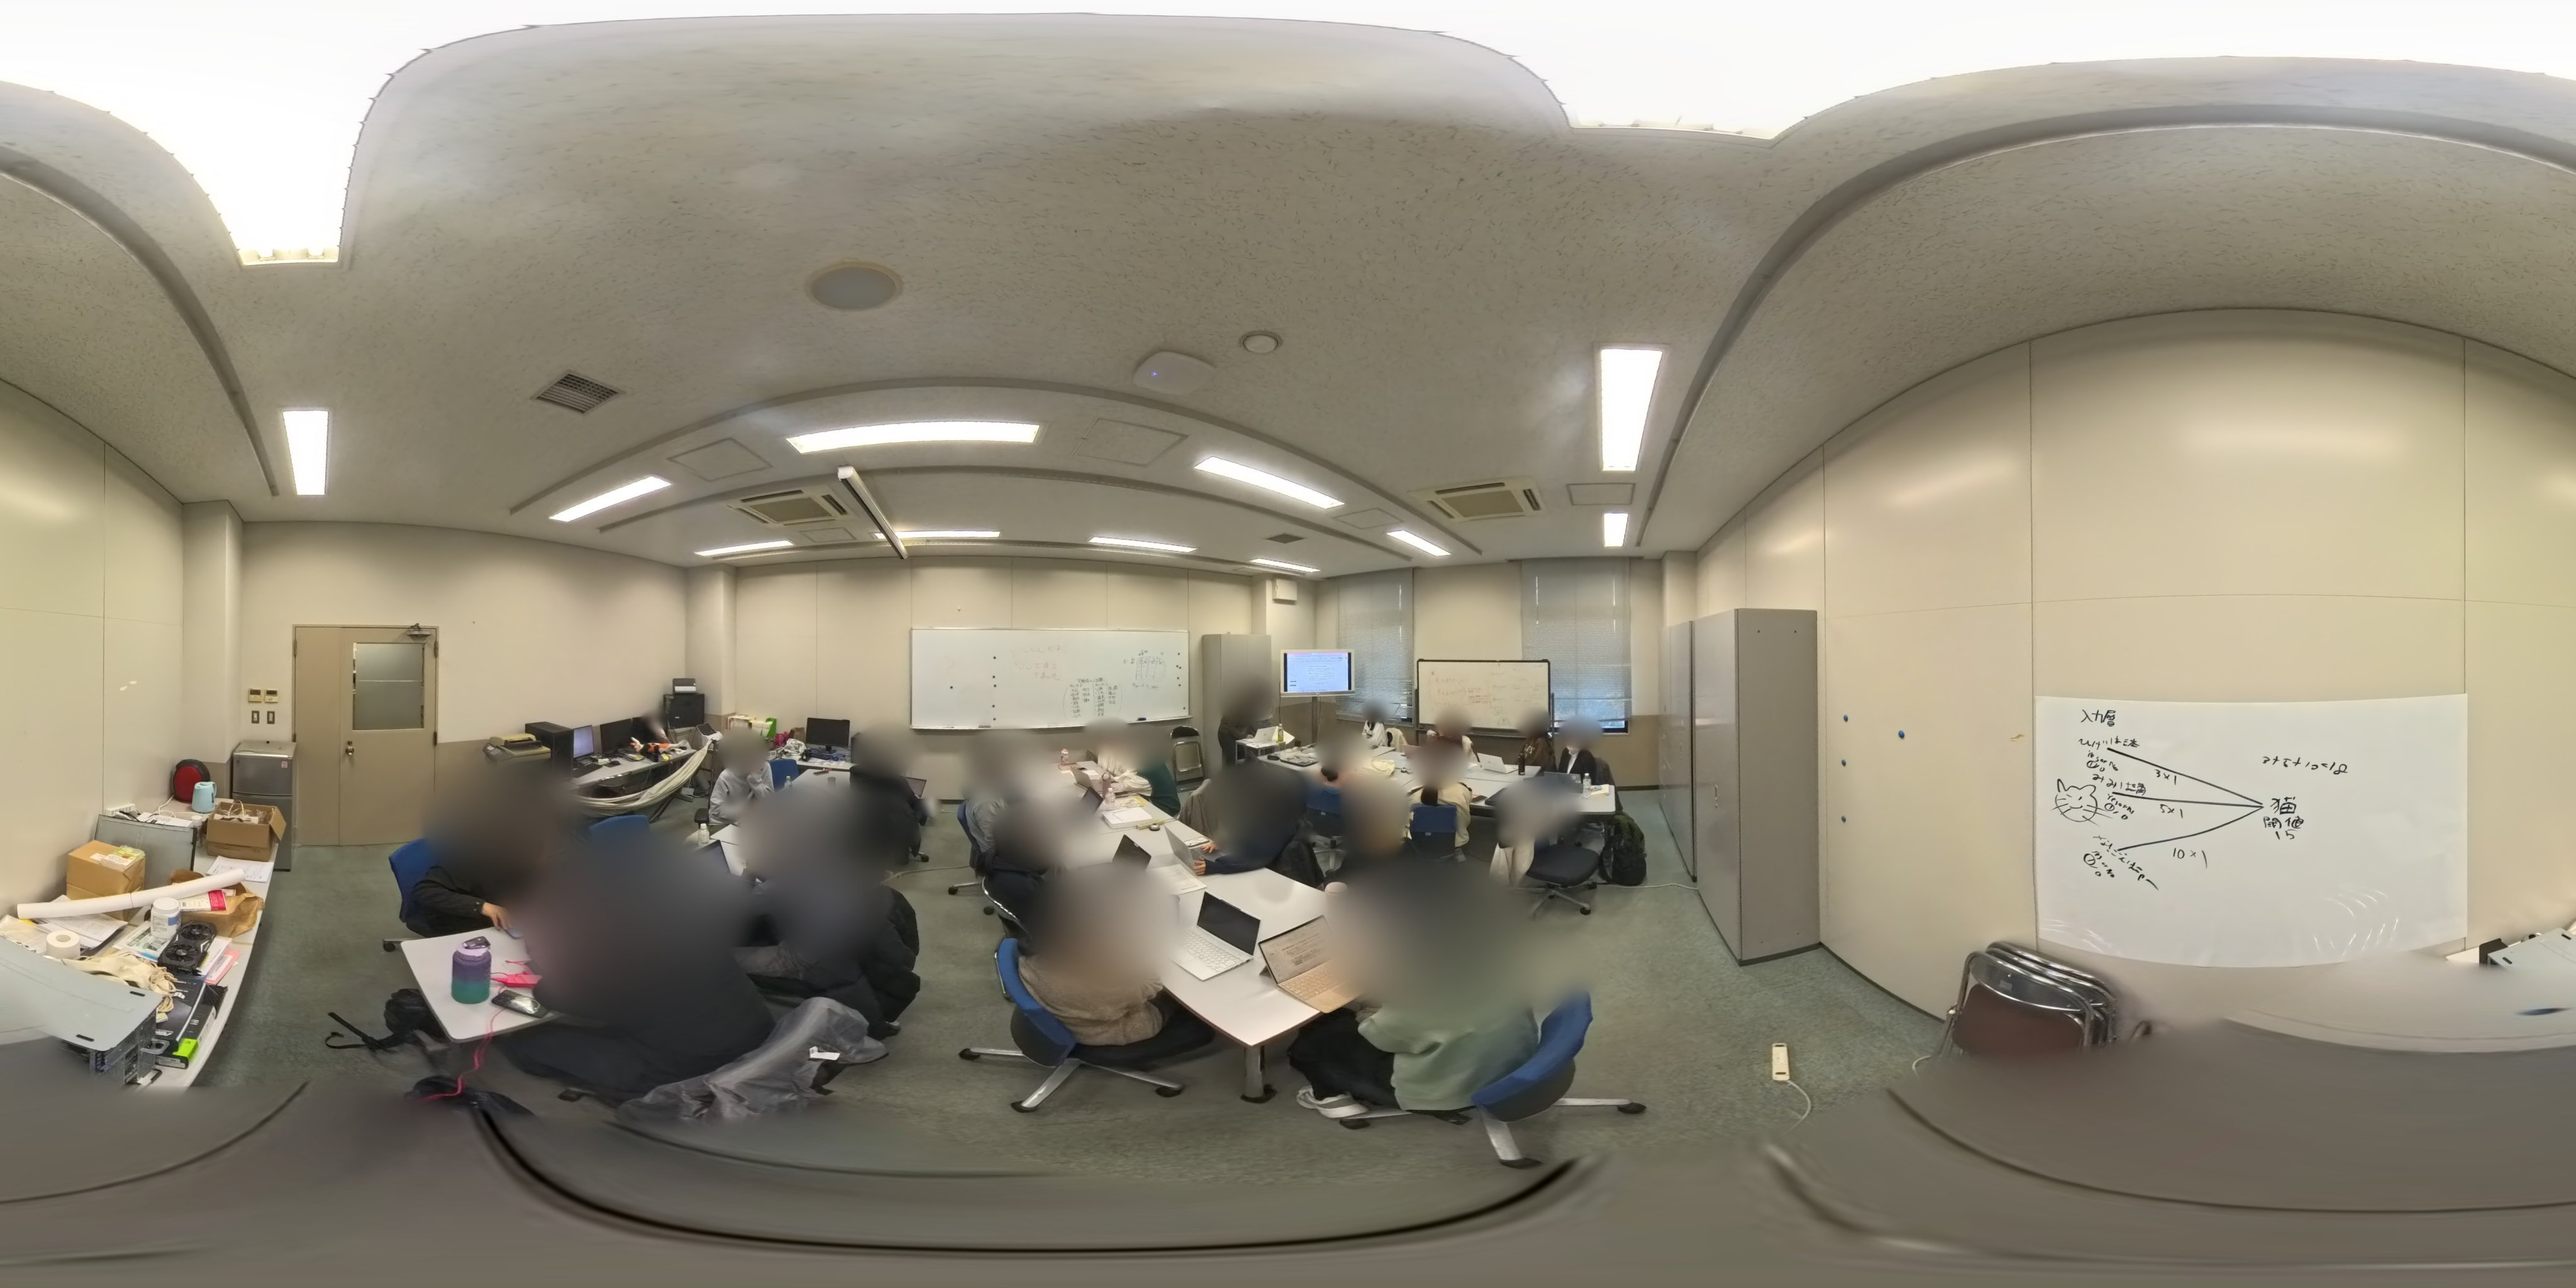
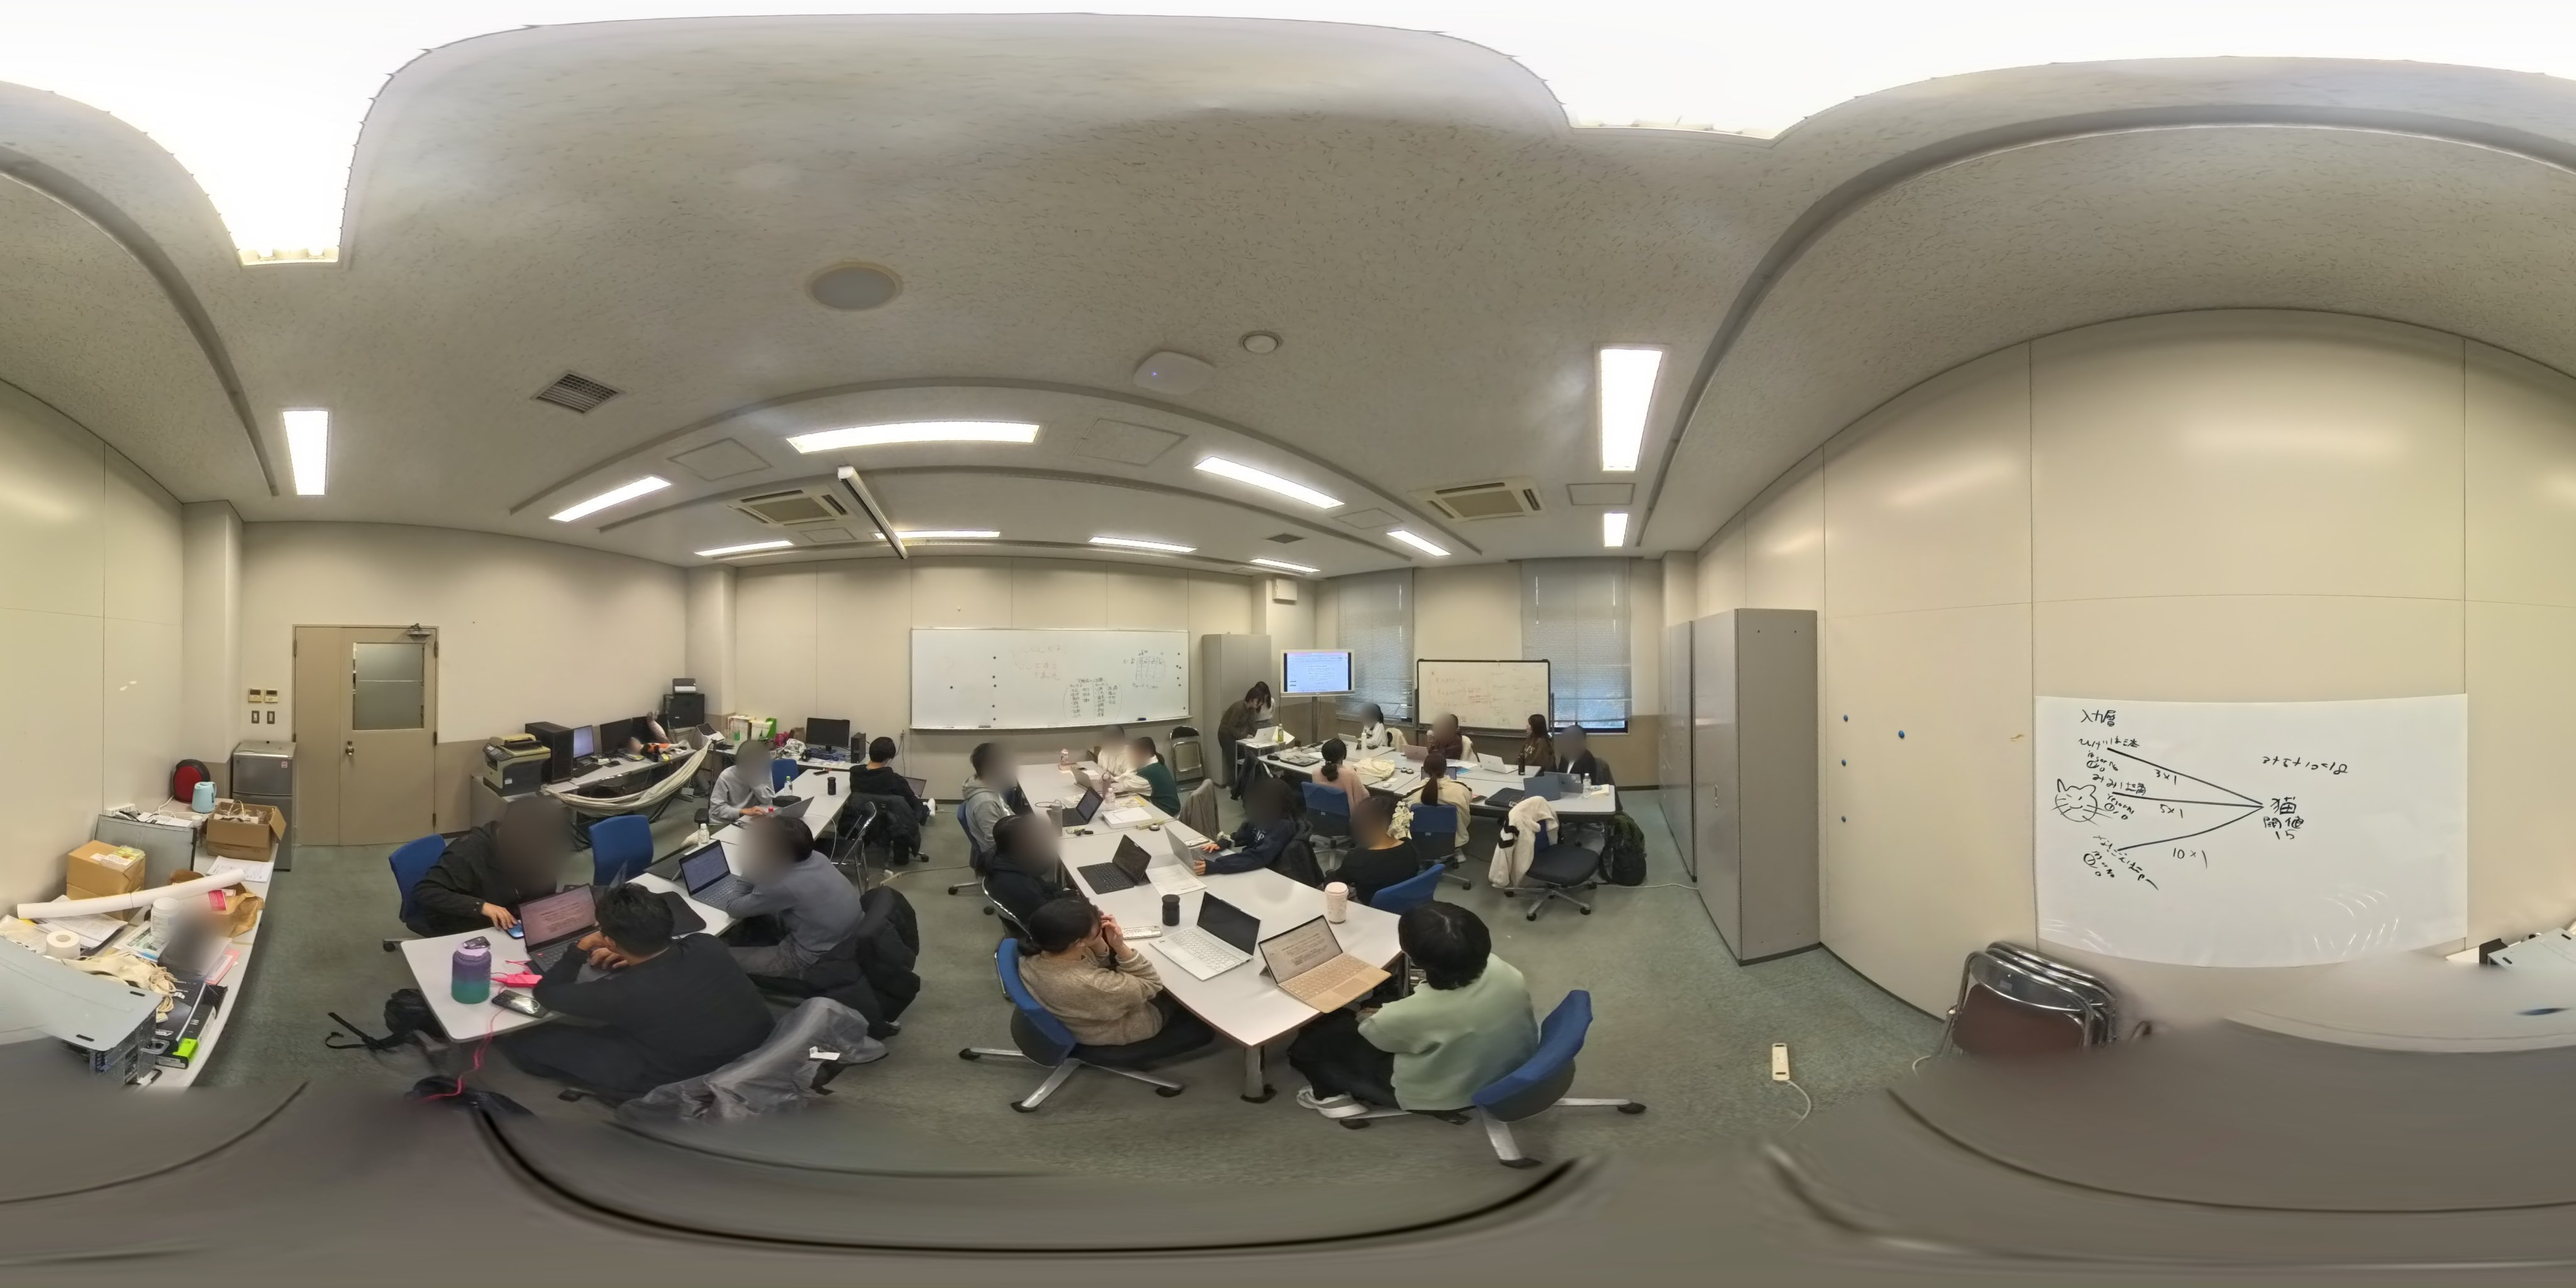
Blur only clearly visible faces in the zemi photo
blur_faces_only.py finds frontal faces with YuNet and blurs just those,
leaving profiles and the backs of heads as they are.

Claude-Session: https://claude.ai/code/session_01CehryqLTpyoRcjbP3Nfant

diff --git a/tools/photo-prep/blur_faces_only.py b/tools/photo-prep/blur_faces_only.py
@@ -1,0 +1,55 @@
+"""Blur only faces that are clearly recognisable (frontal faces found by YuNet), not every head.
+Profiles and backs of heads are left as they are. Faces the detector misses can be added with manual_blur.py.
+
+  python3 blur_faces_only.py yunet.onnx photo.jpg out.jpg [min_score]
+"""
+import sys, math, numpy as np, cv2
+
+def view_maps(W, H, yaw, pitch, fov, size):
+    f = size / 2 / math.tan(fov / 2)
+    xs, ys = np.meshgrid(np.arange(size) - size / 2 + 0.5, np.arange(size) - size / 2 + 0.5)
+    d = np.stack([xs, -ys, np.full_like(xs, f)], -1)
+    d /= np.linalg.norm(d, axis=-1, keepdims=True)
+    cp, sp, cy, sy = math.cos(pitch), math.sin(pitch), math.cos(yaw), math.sin(yaw)
+    x, y, z = d[..., 0], d[..., 1], d[..., 2]
+    y2, z2 = y * cp + z * sp, -y * sp + z * cp
+    x3, z3 = x * cy + z2 * sy, -x * sy + z2 * cy
+    lon, lat = np.arctan2(x3, z3), np.arcsin(np.clip(y2, -1, 1))
+    return ((lon / (2 * math.pi) + 0.5) * W - 0.5).astype(np.float32), ((0.5 - lat / math.pi) * H - 0.5).astype(np.float32)
+
+model, src, dst = sys.argv[1:4]
+min_score = float(sys.argv[4]) if len(sys.argv) > 4 else 0.7
+img = cv2.imread(src); H, W = img.shape[:2]
+SIZE, FOV = 1600, math.radians(80)
+det = cv2.FaceDetectorYN.create(model, "", (SIZE, SIZE), min_score, 0.3, 5000)
+faces = []
+for pitch in (0.0, -0.35, -0.7):
+    for k in range(10):
+        mx, my = view_maps(W, H, k * 2 * math.pi / 10, pitch, FOV, SIZE)
+        view = cv2.remap(img, mx, my, cv2.INTER_LINEAR, borderMode=cv2.BORDER_WRAP)
+        _, res = det.detect(view)
+        for r in (res if res is not None else []):
+            x, y, w, h = r[:4]
+            cx, cy = int(np.clip(x + w / 2, 0, SIZE - 1)), int(np.clip(y + h / 2, 0, SIZE - 1))
+            x0, x1 = int(np.clip(x, 0, SIZE - 1)), int(np.clip(x + w, 0, SIZE - 1))
+            y0, y1 = int(np.clip(y, 0, SIZE - 1)), int(np.clip(y + h, 0, SIZE - 1))
+            u, v = mx[cy, cx], my[cy, cx]
+            du = abs(((mx[cy, x1] - mx[cy, x0]) + W / 2) % W - W / 2)
+            dv = abs(my[y1, cx] - my[y0, cx])
+            faces.append((float(u), float(v), float(du), float(dv), float(r[-1])))
+out = img.copy()
+for u, v, du, dv, s in faces:
+    rx, ry = int(du * 0.75) + 3, int(dv * 0.8) + 3
+    for uu in (u, u - W, u + W):  # faces on the left/right seam
+        x, y = int(uu), int(v)
+        x0, y0, x1, y1 = max(0, x - 2 * rx), max(0, y - 2 * ry), min(W, x + 2 * rx), min(H, y + 2 * ry)
+        if x1 <= x0 or y1 <= y0: continue
+        roi = out[y0:y1, x0:x1]
+        bl = cv2.GaussianBlur(roi, (0, 0), max(2.0, ry / 3.5))
+        m = np.zeros(roi.shape[:2], np.uint8)
+        cv2.ellipse(m, (x - x0, y - y0), (rx, ry), 0, 0, 360, 255, -1)
+        a = cv2.GaussianBlur(m, (0, 0), max(1.5, ry / 6)).astype(np.float32)[..., None] / 255
+        out[y0:y1, x0:x1] = (roi * (1 - a) + bl * a).astype(np.uint8)
+cv2.imwrite(dst, out, [cv2.IMWRITE_JPEG_QUALITY, 85])
+print(len(faces), 'face detections')
+for f in faces: print('  u=%d v=%d w=%d h=%d score=%.2f' % f)
